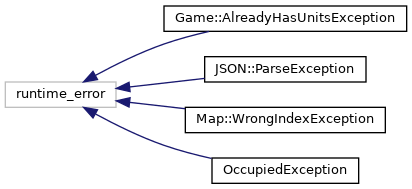
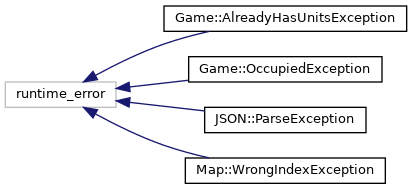
Update gh-pages to output generated at 5c149a8

diff --git a/Game_8h_source.html b/Game_8h_source.html
@@ -73,55 +73,62 @@ $(function() {
 <div class="line"><a name="l00004"></a><span class="lineno">    4</span>&#160;<span class="preprocessor">#include &quot;Hero.h&quot;</span></div>
 <div class="line"><a name="l00005"></a><span class="lineno">    5</span>&#160;<span class="preprocessor">#include &quot;Monster.h&quot;</span></div>
 <div class="line"><a name="l00006"></a><span class="lineno">    6</span>&#160; </div>
-<div class="line"><a name="l00007"></a><span class="lineno"><a class="line" href="structMstr.html">    7</a></span>&#160;<span class="keyword">struct </span><a class="code" href="structMstr.html">Mstr</a>{</div>
-<div class="line"><a name="l00008"></a><span class="lineno">    8</span>&#160;    <a class="code" href="classMonster.html">Monster</a> m;</div>
-<div class="line"><a name="l00009"></a><span class="lineno">    9</span>&#160;    <span class="keywordtype">int</span> col;</div>
-<div class="line"><a name="l00010"></a><span class="lineno">   10</span>&#160;    <span class="keywordtype">int</span> row;</div>
-<div class="line"><a name="l00011"></a><span class="lineno">   11</span>&#160;};</div>
-<div class="line"><a name="l00012"></a><span class="lineno">   12</span>&#160; </div>
-<div class="line"><a name="l00013"></a><span class="lineno"><a class="line" href="structHr.html">   13</a></span>&#160;<span class="keyword">struct </span><a class="code" href="structHr.html">Hr</a>{</div>
-<div class="line"><a name="l00014"></a><span class="lineno">   14</span>&#160;    <a class="code" href="classHero.html">Hero</a>* h;</div>
-<div class="line"><a name="l00015"></a><span class="lineno">   15</span>&#160;    <span class="keywordtype">int</span> col;</div>
-<div class="line"><a name="l00016"></a><span class="lineno">   16</span>&#160;    <span class="keywordtype">int</span> row;</div>
-<div class="line"><a name="l00017"></a><span class="lineno">   17</span>&#160;};</div>
-<div class="line"><a name="l00018"></a><span class="lineno">   18</span>&#160; </div>
-<div class="line"><a name="l00019"></a><span class="lineno"><a class="line" href="classGame.html">   19</a></span>&#160;<span class="keyword">class </span><a class="code" href="classGame.html">Game</a></div>
-<div class="line"><a name="l00020"></a><span class="lineno">   20</span>&#160;{</div>
-<div class="line"><a name="l00021"></a><span class="lineno">   21</span>&#160;<span class="keyword">private</span>:</div>
-<div class="line"><a name="l00022"></a><span class="lineno">   22</span>&#160;    <a class="code" href="classMap.html">Map</a> map;</div>
-<div class="line"><a name="l00023"></a><span class="lineno">   23</span>&#160;    std::list&lt;Mstr&gt; monsters;</div>
-<div class="line"><a name="l00024"></a><span class="lineno">   24</span>&#160;    <a class="code" href="structHr.html">Hr</a> hero;</div>
-<div class="line"><a name="l00025"></a><span class="lineno">   25</span>&#160;    <span class="keywordtype">bool</span> hasUnits; <span class="comment">// @Tomi ez legyen majd true-ra állítva a putokban!!!</span></div>
-<div class="line"><a name="l00026"></a><span class="lineno">   26</span>&#160;    <span class="keywordtype">bool</span> hasMap;</div>
-<div class="line"><a name="l00027"></a><span class="lineno">   27</span>&#160;<span class="keyword">public</span>:</div>
-<div class="line"><a name="l00028"></a><span class="lineno">   28</span>&#160;    <a class="code" href="classGame.html">Game</a>() : map(<a class="code" href="classMap.html">Map</a>()), hasUnits(<span class="keyword">false</span>), hasMap(<span class="keyword">false</span>),hero(){};</div>
-<div class="line"><a name="l00029"></a><span class="lineno">   29</span>&#160;    <a class="code" href="classGame.html">Game</a>(std::string mapfilename) : map(<a class="code" href="classMap.html">Map</a>(mapfilename)), hasUnits(<span class="keyword">false</span>), hasMap(<span class="keyword">true</span>){};</div>
-<div class="line"><a name="l00030"></a><span class="lineno">   30</span>&#160;    ~<a class="code" href="classGame.html">Game</a>();</div>
-<div class="line"><a name="l00031"></a><span class="lineno">   31</span>&#160; </div>
-<div class="line"><a name="l00032"></a><span class="lineno">   32</span>&#160;<span class="keywordtype">void</span> setMap(<a class="code" href="classMap.html">Map</a> NewMap); <span class="comment">// Set the map</span></div>
-<div class="line"><a name="l00033"></a><span class="lineno">   33</span>&#160; </div>
-<div class="line"><a name="l00034"></a><span class="lineno">   34</span>&#160;<span class="keywordtype">void</span> putHero(<a class="code" href="classHero.html">Hero</a> hero, <span class="keywordtype">int</span> x, <span class="keywordtype">int</span> y);</div>
-<div class="line"><a name="l00035"></a><span class="lineno">   35</span>&#160; </div>
-<div class="line"><a name="l00036"></a><span class="lineno">   36</span>&#160;<span class="keywordtype">void</span> putMonster(<a class="code" href="classMonster.html">Monster</a> monster, <span class="keywordtype">int</span> x, <span class="keywordtype">int</span> y);</div>
+<div class="line"><a name="l00007"></a><span class="lineno"><a class="line" href="structMstr.html">    7</a></span>&#160;<span class="keyword">struct </span><a class="code" href="structMstr.html">Mstr</a></div>
+<div class="line"><a name="l00008"></a><span class="lineno">    8</span>&#160;{</div>
+<div class="line"><a name="l00009"></a><span class="lineno">    9</span>&#160;    <a class="code" href="classMonster.html">Monster</a> m;</div>
+<div class="line"><a name="l00010"></a><span class="lineno">   10</span>&#160;    <span class="keywordtype">int</span> col;</div>
+<div class="line"><a name="l00011"></a><span class="lineno">   11</span>&#160;    <span class="keywordtype">int</span> row;</div>
+<div class="line"><a name="l00012"></a><span class="lineno">   12</span>&#160;} mm;</div>
+<div class="line"><a name="l00013"></a><span class="lineno">   13</span>&#160; </div>
+<div class="line"><a name="l00014"></a><span class="lineno"><a class="line" href="structHr.html">   14</a></span>&#160;<span class="keyword">struct </span><a class="code" href="structHr.html">Hr</a></div>
+<div class="line"><a name="l00015"></a><span class="lineno">   15</span>&#160;{</div>
+<div class="line"><a name="l00016"></a><span class="lineno">   16</span>&#160;    <a class="code" href="classHero.html">Hero</a> *h;</div>
+<div class="line"><a name="l00017"></a><span class="lineno">   17</span>&#160;    <span class="keywordtype">int</span> col;</div>
+<div class="line"><a name="l00018"></a><span class="lineno">   18</span>&#160;    <span class="keywordtype">int</span> row;</div>
+<div class="line"><a name="l00019"></a><span class="lineno">   19</span>&#160;};</div>
+<div class="line"><a name="l00020"></a><span class="lineno">   20</span>&#160; </div>
+<div class="line"><a name="l00021"></a><span class="lineno"><a class="line" href="classGame.html">   21</a></span>&#160;<span class="keyword">class </span><a class="code" href="classGame.html">Game</a></div>
+<div class="line"><a name="l00022"></a><span class="lineno">   22</span>&#160;{</div>
+<div class="line"><a name="l00023"></a><span class="lineno">   23</span>&#160;<span class="keyword">private</span>:</div>
+<div class="line"><a name="l00024"></a><span class="lineno">   24</span>&#160;    <a class="code" href="classMap.html">Map</a> map;</div>
+<div class="line"><a name="l00025"></a><span class="lineno">   25</span>&#160;    std::list&lt;Mstr&gt; monsters;</div>
+<div class="line"><a name="l00026"></a><span class="lineno">   26</span>&#160;    <a class="code" href="structHr.html">Hr</a> hero;</div>
+<div class="line"><a name="l00027"></a><span class="lineno">   27</span>&#160;    <span class="keywordtype">bool</span> hasUnits; <span class="comment">// @Tomi ez legyen majd true-ra állítva a putokban!!!</span></div>
+<div class="line"><a name="l00028"></a><span class="lineno">   28</span>&#160;    <span class="keywordtype">bool</span> hasMap;</div>
+<div class="line"><a name="l00029"></a><span class="lineno">   29</span>&#160; </div>
+<div class="line"><a name="l00030"></a><span class="lineno">   30</span>&#160;<span class="keyword">public</span>:</div>
+<div class="line"><a name="l00031"></a><span class="lineno">   31</span>&#160;    <a class="code" href="classGame.html">Game</a>() : map(<a class="code" href="classMap.html">Map</a>()), hasUnits(<span class="keyword">false</span>), hasMap(<span class="keyword">false</span>), hero(){};</div>
+<div class="line"><a name="l00032"></a><span class="lineno">   32</span>&#160;    <a class="code" href="classGame.html">Game</a>(std::string mapfilename) : map(<a class="code" href="classMap.html">Map</a>(mapfilename)), hasUnits(<span class="keyword">false</span>), hasMap(<span class="keyword">true</span>){};</div>
+<div class="line"><a name="l00033"></a><span class="lineno">   33</span>&#160;    ~<a class="code" href="classGame.html">Game</a>();</div>
+<div class="line"><a name="l00034"></a><span class="lineno">   34</span>&#160; </div>
+<div class="line"><a name="l00035"></a><span class="lineno">   35</span>&#160;    <span class="keywordtype">void</span> run();</div>
+<div class="line"><a name="l00036"></a><span class="lineno">   36</span>&#160;    <span class="keywordtype">void</span> setMap(<a class="code" href="classMap.html">Map</a> NewMap); <span class="comment">// Set the map</span></div>
 <div class="line"><a name="l00037"></a><span class="lineno">   37</span>&#160; </div>
-<div class="line"><a name="l00038"></a><span class="lineno"><a class="line" href="classGame_1_1AlreadyHasUnitsException.html">   38</a></span>&#160;<span class="keyword">class </span><a class="code" href="classGame_1_1AlreadyHasUnitsException.html">AlreadyHasUnitsException</a> : <span class="keyword">public</span> std::runtime_error{</div>
-<div class="line"><a name="l00039"></a><span class="lineno">   39</span>&#160;    <span class="keyword">public</span>:</div>
-<div class="line"><a name="l00040"></a><span class="lineno">   40</span>&#160;        <a class="code" href="classGame_1_1AlreadyHasUnitsException.html">AlreadyHasUnitsException</a>(<span class="keyword">const</span> std::string&amp; msg) : std::runtime_error(msg){}</div>
-<div class="line"><a name="l00041"></a><span class="lineno">   41</span>&#160;    };</div>
-<div class="line"><a name="l00042"></a><span class="lineno">   42</span>&#160;};</div>
-<div class="line"><a name="l00043"></a><span class="lineno"><a class="line" href="classOccupiedException.html">   43</a></span>&#160; <span class="keyword">class </span><a class="code" href="classOccupiedException.html">OccupiedException</a> : <span class="keyword">public</span> std::runtime_error{ </div>
-<div class="line"><a name="l00044"></a><span class="lineno">   44</span>&#160;        <span class="keyword">public</span>:</div>
-<div class="line"><a name="l00045"></a><span class="lineno">   45</span>&#160;        <a class="code" href="classOccupiedException.html">OccupiedException</a>(<span class="keyword">const</span> std::string&amp; errMsg) : std::runtime_error(errMsg){}</div>
+<div class="line"><a name="l00038"></a><span class="lineno">   38</span>&#160;    <span class="keywordtype">void</span> putHero(<a class="code" href="classHero.html">Hero</a> hero, <span class="keywordtype">int</span> x, <span class="keywordtype">int</span> y);</div>
+<div class="line"><a name="l00039"></a><span class="lineno">   39</span>&#160;    <span class="keywordtype">void</span> moveHero(<span class="keyword">const</span> std::string &amp;direction);</div>
+<div class="line"><a name="l00040"></a><span class="lineno">   40</span>&#160;    <span class="keywordtype">void</span> putMonster(<a class="code" href="classMonster.html">Monster</a> monster, <span class="keywordtype">int</span> x, <span class="keywordtype">int</span> y);</div>
+<div class="line"><a name="l00041"></a><span class="lineno">   41</span>&#160; </div>
+<div class="line"><a name="l00042"></a><span class="lineno"><a class="line" href="classGame_1_1AlreadyHasUnitsException.html">   42</a></span>&#160;    <span class="keyword">class </span><a class="code" href="classGame_1_1AlreadyHasUnitsException.html">AlreadyHasUnitsException</a> : <span class="keyword">public</span> std::runtime_error</div>
+<div class="line"><a name="l00043"></a><span class="lineno">   43</span>&#160;    {</div>
+<div class="line"><a name="l00044"></a><span class="lineno">   44</span>&#160;    <span class="keyword">public</span>:</div>
+<div class="line"><a name="l00045"></a><span class="lineno">   45</span>&#160;        <a class="code" href="classGame_1_1AlreadyHasUnitsException.html">AlreadyHasUnitsException</a>(<span class="keyword">const</span> std::string &amp;msg) : std::runtime_error(msg) {}</div>
 <div class="line"><a name="l00046"></a><span class="lineno">   46</span>&#160;    };</div>
+<div class="line"><a name="l00047"></a><span class="lineno">   47</span>&#160; </div>
+<div class="line"><a name="l00048"></a><span class="lineno"><a class="line" href="classGame_1_1OccupiedException.html">   48</a></span>&#160;    <span class="keyword">class </span><a class="code" href="classGame_1_1OccupiedException.html">OccupiedException</a> : <span class="keyword">public</span> std::runtime_error</div>
+<div class="line"><a name="l00049"></a><span class="lineno">   49</span>&#160;    {</div>
+<div class="line"><a name="l00050"></a><span class="lineno">   50</span>&#160;    <span class="keyword">public</span>:</div>
+<div class="line"><a name="l00051"></a><span class="lineno">   51</span>&#160;        <a class="code" href="classGame_1_1OccupiedException.html">OccupiedException</a>(<span class="keyword">const</span> std::string &amp;errMsg) : std::runtime_error(errMsg) {}</div>
+<div class="line"><a name="l00052"></a><span class="lineno">   52</span>&#160;    };</div>
+<div class="line"><a name="l00053"></a><span class="lineno">   53</span>&#160;};</div>
 </div><!-- fragment --></div><!-- contents -->
 <div class="ttc" id="astructMstr_html"><div class="ttname"><a href="structMstr.html">Mstr</a></div><div class="ttdef"><b>Definition:</b> Game.h:7</div></div>
 <div class="ttc" id="aclassHero_html"><div class="ttname"><a href="classHero.html">Hero</a></div><div class="ttdoc">Hero class.</div><div class="ttdef"><b>Definition:</b> Hero.h:20</div></div>
-<div class="ttc" id="astructHr_html"><div class="ttname"><a href="structHr.html">Hr</a></div><div class="ttdef"><b>Definition:</b> Game.h:13</div></div>
-<div class="ttc" id="aclassGame_1_1AlreadyHasUnitsException_html"><div class="ttname"><a href="classGame_1_1AlreadyHasUnitsException.html">Game::AlreadyHasUnitsException</a></div><div class="ttdef"><b>Definition:</b> Game.h:38</div></div>
-<div class="ttc" id="aclassOccupiedException_html"><div class="ttname"><a href="classOccupiedException.html">OccupiedException</a></div><div class="ttdef"><b>Definition:</b> Game.h:43</div></div>
+<div class="ttc" id="astructHr_html"><div class="ttname"><a href="structHr.html">Hr</a></div><div class="ttdef"><b>Definition:</b> Game.h:14</div></div>
+<div class="ttc" id="aclassGame_1_1OccupiedException_html"><div class="ttname"><a href="classGame_1_1OccupiedException.html">Game::OccupiedException</a></div><div class="ttdef"><b>Definition:</b> Game.h:48</div></div>
+<div class="ttc" id="aclassGame_1_1AlreadyHasUnitsException_html"><div class="ttname"><a href="classGame_1_1AlreadyHasUnitsException.html">Game::AlreadyHasUnitsException</a></div><div class="ttdef"><b>Definition:</b> Game.h:42</div></div>
 <div class="ttc" id="aclassMonster_html"><div class="ttname"><a href="classMonster.html">Monster</a></div><div class="ttdoc">Monster class.</div><div class="ttdef"><b>Definition:</b> Monster.h:16</div></div>
 <div class="ttc" id="aclassMap_html"><div class="ttname"><a href="classMap.html">Map</a></div><div class="ttdef"><b>Definition:</b> Map.h:5</div></div>
-<div class="ttc" id="aclassGame_html"><div class="ttname"><a href="classGame.html">Game</a></div><div class="ttdef"><b>Definition:</b> Game.h:19</div></div>
+<div class="ttc" id="aclassGame_html"><div class="ttname"><a href="classGame.html">Game</a></div><div class="ttdef"><b>Definition:</b> Game.h:21</div></div>
 <!-- start footer part -->
 <hr class="footer"/><address class="footer"><small>
 Generated by &#160;<a href="http://www.doxygen.org/index.html">

diff --git a/annotated.html b/annotated.html
@@ -72,15 +72,15 @@ $(function() {
 <tr id="row_0_" class="even"><td class="entry"><span style="width:16px;display:inline-block;">&#160;</span><span class="icona"><span class="icon">C</span></span><a class="el" href="structdamage.html" target="_self">damage</a></td><td class="desc"></td></tr>
 <tr id="row_1_"><td class="entry"><span style="width:0px;display:inline-block;">&#160;</span><span id="arr_1_" class="arrow" onclick="toggleFolder('1_')">&#9660;</span><span class="icona"><span class="icon">C</span></span><a class="el" href="classGame.html" target="_self">Game</a></td><td class="desc"></td></tr>
 <tr id="row_1_0_" class="even"><td class="entry"><span style="width:32px;display:inline-block;">&#160;</span><span class="icona"><span class="icon">C</span></span><a class="el" href="classGame_1_1AlreadyHasUnitsException.html" target="_self">AlreadyHasUnitsException</a></td><td class="desc"></td></tr>
-<tr id="row_2_"><td class="entry"><span style="width:16px;display:inline-block;">&#160;</span><span class="icona"><span class="icon">C</span></span><a class="el" href="classHero.html" target="_self">Hero</a></td><td class="desc"><a class="el" href="classHero.html" title="Hero class.">Hero</a> class </td></tr>
-<tr id="row_3_" class="even"><td class="entry"><span style="width:16px;display:inline-block;">&#160;</span><span class="icona"><span class="icon">C</span></span><a class="el" href="structHr.html" target="_self">Hr</a></td><td class="desc"></td></tr>
-<tr id="row_4_"><td class="entry"><span style="width:0px;display:inline-block;">&#160;</span><span id="arr_4_" class="arrow" onclick="toggleFolder('4_')">&#9660;</span><span class="icona"><span class="icon">C</span></span><a class="el" href="classJSON.html" target="_self">JSON</a></td><td class="desc"><a class="el" href="classJSON.html" title="JSON class.">JSON</a> class </td></tr>
-<tr id="row_4_0_" class="even"><td class="entry"><span style="width:32px;display:inline-block;">&#160;</span><span class="icona"><span class="icon">C</span></span><a class="el" href="classJSON_1_1ParseException.html" target="_self">ParseException</a></td><td class="desc"></td></tr>
-<tr id="row_5_"><td class="entry"><span style="width:0px;display:inline-block;">&#160;</span><span id="arr_5_" class="arrow" onclick="toggleFolder('5_')">&#9660;</span><span class="icona"><span class="icon">C</span></span><a class="el" href="classMap.html" target="_self">Map</a></td><td class="desc"></td></tr>
-<tr id="row_5_0_" class="even"><td class="entry"><span style="width:32px;display:inline-block;">&#160;</span><span class="icona"><span class="icon">C</span></span><a class="el" href="classMap_1_1WrongIndexException.html" target="_self">WrongIndexException</a></td><td class="desc"></td></tr>
-<tr id="row_6_"><td class="entry"><span style="width:16px;display:inline-block;">&#160;</span><span class="icona"><span class="icon">C</span></span><a class="el" href="classMonster.html" target="_self">Monster</a></td><td class="desc"><a class="el" href="classMonster.html" title="Monster class.">Monster</a> class </td></tr>
-<tr id="row_7_" class="even"><td class="entry"><span style="width:16px;display:inline-block;">&#160;</span><span class="icona"><span class="icon">C</span></span><a class="el" href="structMstr.html" target="_self">Mstr</a></td><td class="desc"></td></tr>
-<tr id="row_8_"><td class="entry"><span style="width:16px;display:inline-block;">&#160;</span><span class="icona"><span class="icon">C</span></span><a class="el" href="classOccupiedException.html" target="_self">OccupiedException</a></td><td class="desc"></td></tr>
+<tr id="row_1_1_"><td class="entry"><span style="width:32px;display:inline-block;">&#160;</span><span class="icona"><span class="icon">C</span></span><a class="el" href="classGame_1_1OccupiedException.html" target="_self">OccupiedException</a></td><td class="desc"></td></tr>
+<tr id="row_2_" class="even"><td class="entry"><span style="width:16px;display:inline-block;">&#160;</span><span class="icona"><span class="icon">C</span></span><a class="el" href="classHero.html" target="_self">Hero</a></td><td class="desc"><a class="el" href="classHero.html" title="Hero class.">Hero</a> class </td></tr>
+<tr id="row_3_"><td class="entry"><span style="width:16px;display:inline-block;">&#160;</span><span class="icona"><span class="icon">C</span></span><a class="el" href="structHr.html" target="_self">Hr</a></td><td class="desc"></td></tr>
+<tr id="row_4_" class="even"><td class="entry"><span style="width:0px;display:inline-block;">&#160;</span><span id="arr_4_" class="arrow" onclick="toggleFolder('4_')">&#9660;</span><span class="icona"><span class="icon">C</span></span><a class="el" href="classJSON.html" target="_self">JSON</a></td><td class="desc"><a class="el" href="classJSON.html" title="JSON class.">JSON</a> class </td></tr>
+<tr id="row_4_0_"><td class="entry"><span style="width:32px;display:inline-block;">&#160;</span><span class="icona"><span class="icon">C</span></span><a class="el" href="classJSON_1_1ParseException.html" target="_self">ParseException</a></td><td class="desc"></td></tr>
+<tr id="row_5_" class="even"><td class="entry"><span style="width:0px;display:inline-block;">&#160;</span><span id="arr_5_" class="arrow" onclick="toggleFolder('5_')">&#9660;</span><span class="icona"><span class="icon">C</span></span><a class="el" href="classMap.html" target="_self">Map</a></td><td class="desc"></td></tr>
+<tr id="row_5_0_"><td class="entry"><span style="width:32px;display:inline-block;">&#160;</span><span class="icona"><span class="icon">C</span></span><a class="el" href="classMap_1_1WrongIndexException.html" target="_self">WrongIndexException</a></td><td class="desc"></td></tr>
+<tr id="row_6_" class="even"><td class="entry"><span style="width:16px;display:inline-block;">&#160;</span><span class="icona"><span class="icon">C</span></span><a class="el" href="classMonster.html" target="_self">Monster</a></td><td class="desc"><a class="el" href="classMonster.html" title="Monster class.">Monster</a> class </td></tr>
+<tr id="row_7_"><td class="entry"><span style="width:16px;display:inline-block;">&#160;</span><span class="icona"><span class="icon">C</span></span><a class="el" href="structMstr.html" target="_self">Mstr</a></td><td class="desc"></td></tr>
 </table>
 </div><!-- directory -->
 </div><!-- contents -->

diff --git a/classGame_1_1OccupiedException.html b/classGame_1_1OccupiedException.html
@@ -5,7 +5,7 @@
 <meta http-equiv="X-UA-Compatible" content="IE=9"/>
 <meta name="generator" content="Doxygen 1.8.17"/>
 <meta name="viewport" content="width=device-width, initial-scale=1"/>
-<title>RPG: Member List</title>
+<title>RPG: Game::OccupiedException Class Reference</title>
 <link href="tabs.css" rel="stylesheet" type="text/css"/>
 <script type="text/javascript" src="jquery.js"></script>
 <script type="text/javascript" src="dynsections.js"></script>
@@ -61,17 +61,48 @@ $(function() {
 </iframe>
 </div>
 
+<div id="nav-path" class="navpath">
+  <ul>
+<li class="navelem"><a class="el" href="classGame.html">Game</a></li><li class="navelem"><a class="el" href="classGame_1_1OccupiedException.html">OccupiedException</a></li>  </ul>
+</div>
 </div><!-- top -->
 <div class="header">
+  <div class="summary">
+<a href="#pub-methods">Public Member Functions</a> &#124;
+<a href="classGame_1_1OccupiedException-members.html">List of all members</a>  </div>
   <div class="headertitle">
-<div class="title">OccupiedException Member List</div>  </div>
+<div class="title">Game::OccupiedException Class Reference</div>  </div>
 </div><!--header-->
 <div class="contents">
-
-<p>This is the complete list of members for <a class="el" href="classOccupiedException.html">OccupiedException</a>, including all inherited members.</p>
-<table class="directory">
-  <tr bgcolor="#f0f0f0" class="even"><td class="entry"><b>OccupiedException</b>(const std::string &amp;errMsg) (defined in <a class="el" href="classOccupiedException.html">OccupiedException</a>)</td><td class="entry"><a class="el" href="classOccupiedException.html">OccupiedException</a></td><td class="entry"><span class="mlabel">inline</span></td></tr>
-</table></div><!-- contents -->
+<div class="dynheader">
+Inheritance diagram for Game::OccupiedException:</div>
+<div class="dyncontent">
+<div class="center"><img src="classGame_1_1OccupiedException__inherit__graph.png" border="0" usemap="#Game_1_1OccupiedException_inherit__map" alt="Inheritance graph"/></div>
+<map name="Game_1_1OccupiedException_inherit__map" id="Game_1_1OccupiedException_inherit__map">
+<area shape="rect" title=" " alt="" coords="5,80,199,107"/>
+<area shape="rect" title=" " alt="" coords="47,5,157,32"/>
+</map>
+<center><span class="legend">[<a href="graph_legend.html">legend</a>]</span></center></div>
+<div class="dynheader">
+Collaboration diagram for Game::OccupiedException:</div>
+<div class="dyncontent">
+<div class="center"><img src="classGame_1_1OccupiedException__coll__graph.png" border="0" usemap="#Game_1_1OccupiedException_coll__map" alt="Collaboration graph"/></div>
+<map name="Game_1_1OccupiedException_coll__map" id="Game_1_1OccupiedException_coll__map">
+<area shape="rect" title=" " alt="" coords="5,80,199,107"/>
+<area shape="rect" title=" " alt="" coords="47,5,157,32"/>
+</map>
+<center><span class="legend">[<a href="graph_legend.html">legend</a>]</span></center></div>
+<table class="memberdecls">
+<tr class="heading"><td colspan="2"><h2 class="groupheader"><a name="pub-methods"></a>
+Public Member Functions</h2></td></tr>
+<tr class="memitem:a12f115db77fab3b1a7c5a5eaea3887af"><td class="memItemLeft" align="right" valign="top"><a id="a12f115db77fab3b1a7c5a5eaea3887af"></a>
+&#160;</td><td class="memItemRight" valign="bottom"><b>OccupiedException</b> (const std::string &amp;errMsg)</td></tr>
+<tr class="separator:a12f115db77fab3b1a7c5a5eaea3887af"><td class="memSeparator" colspan="2">&#160;</td></tr>
+</table>
+<hr/>The documentation for this class was generated from the following file:<ul>
+<li><a class="el" href="Game_8h_source.html">Game.h</a></li>
+</ul>
+</div><!-- contents -->
 <!-- start footer part -->
 <hr class="footer"/><address class="footer"><small>
 Generated by &#160;<a href="http://www.doxygen.org/index.html">

diff --git a/classGame_1_1OccupiedException-members.html b/classGame_1_1OccupiedException-members.html
@@ -5,7 +5,7 @@
 <meta http-equiv="X-UA-Compatible" content="IE=9"/>
 <meta name="generator" content="Doxygen 1.8.17"/>
 <meta name="viewport" content="width=device-width, initial-scale=1"/>
-<title>RPG: OccupiedException Class Reference</title>
+<title>RPG: Member List</title>
 <link href="tabs.css" rel="stylesheet" type="text/css"/>
 <script type="text/javascript" src="jquery.js"></script>
 <script type="text/javascript" src="dynsections.js"></script>
@@ -61,44 +61,21 @@ $(function() {
 </iframe>
 </div>
 
+<div id="nav-path" class="navpath">
+  <ul>
+<li class="navelem"><a class="el" href="classGame.html">Game</a></li><li class="navelem"><a class="el" href="classGame_1_1OccupiedException.html">OccupiedException</a></li>  </ul>
+</div>
 </div><!-- top -->
 <div class="header">
-  <div class="summary">
-<a href="#pub-methods">Public Member Functions</a> &#124;
-<a href="classOccupiedException-members.html">List of all members</a>  </div>
   <div class="headertitle">
-<div class="title">OccupiedException Class Reference</div>  </div>
+<div class="title">Game::OccupiedException Member List</div>  </div>
 </div><!--header-->
 <div class="contents">
-<div class="dynheader">
-Inheritance diagram for OccupiedException:</div>
-<div class="dyncontent">
-<div class="center"><img src="classOccupiedException__inherit__graph.png" border="0" usemap="#OccupiedException_inherit__map" alt="Inheritance graph"/></div>
-<map name="OccupiedException_inherit__map" id="OccupiedException_inherit__map">
-<area shape="rect" title=" " alt="" coords="5,80,152,107"/>
-<area shape="rect" title=" " alt="" coords="23,5,134,32"/>
-</map>
-<center><span class="legend">[<a href="graph_legend.html">legend</a>]</span></center></div>
-<div class="dynheader">
-Collaboration diagram for OccupiedException:</div>
-<div class="dyncontent">
-<div class="center"><img src="classOccupiedException__coll__graph.png" border="0" usemap="#OccupiedException_coll__map" alt="Collaboration graph"/></div>
-<map name="OccupiedException_coll__map" id="OccupiedException_coll__map">
-<area shape="rect" title=" " alt="" coords="5,80,152,107"/>
-<area shape="rect" title=" " alt="" coords="23,5,134,32"/>
-</map>
-<center><span class="legend">[<a href="graph_legend.html">legend</a>]</span></center></div>
-<table class="memberdecls">
-<tr class="heading"><td colspan="2"><h2 class="groupheader"><a name="pub-methods"></a>
-Public Member Functions</h2></td></tr>
-<tr class="memitem:adaac78df5dc73ea0ca96fb18ad7b1b92"><td class="memItemLeft" align="right" valign="top"><a id="adaac78df5dc73ea0ca96fb18ad7b1b92"></a>
-&#160;</td><td class="memItemRight" valign="bottom"><b>OccupiedException</b> (const std::string &amp;errMsg)</td></tr>
-<tr class="separator:adaac78df5dc73ea0ca96fb18ad7b1b92"><td class="memSeparator" colspan="2">&#160;</td></tr>
-</table>
-<hr/>The documentation for this class was generated from the following file:<ul>
-<li><a class="el" href="Game_8h_source.html">Game.h</a></li>
-</ul>
-</div><!-- contents -->
+
+<p>This is the complete list of members for <a class="el" href="classGame_1_1OccupiedException.html">Game::OccupiedException</a>, including all inherited members.</p>
+<table class="directory">
+  <tr bgcolor="#f0f0f0" class="even"><td class="entry"><b>OccupiedException</b>(const std::string &amp;errMsg) (defined in <a class="el" href="classGame_1_1OccupiedException.html">Game::OccupiedException</a>)</td><td class="entry"><a class="el" href="classGame_1_1OccupiedException.html">Game::OccupiedException</a></td><td class="entry"><span class="mlabel">inline</span></td></tr>
+</table></div><!-- contents -->
 <!-- start footer part -->
 <hr class="footer"/><address class="footer"><small>
 Generated by &#160;<a href="http://www.doxygen.org/index.html">

diff --git a/classGame.html b/classGame.html
@@ -76,18 +76,26 @@ $(function() {
 Classes</h2></td></tr>
 <tr class="memitem:"><td class="memItemLeft" align="right" valign="top">class &#160;</td><td class="memItemRight" valign="bottom"><a class="el" href="classGame_1_1AlreadyHasUnitsException.html">AlreadyHasUnitsException</a></td></tr>
 <tr class="separator:"><td class="memSeparator" colspan="2">&#160;</td></tr>
+<tr class="memitem:"><td class="memItemLeft" align="right" valign="top">class &#160;</td><td class="memItemRight" valign="bottom"><a class="el" href="classGame_1_1OccupiedException.html">OccupiedException</a></td></tr>
+<tr class="separator:"><td class="memSeparator" colspan="2">&#160;</td></tr>
 </table><table class="memberdecls">
 <tr class="heading"><td colspan="2"><h2 class="groupheader"><a name="pub-methods"></a>
 Public Member Functions</h2></td></tr>
 <tr class="memitem:a4826d5d4e1c4a355c203df5c4fceb650"><td class="memItemLeft" align="right" valign="top"><a id="a4826d5d4e1c4a355c203df5c4fceb650"></a>
 &#160;</td><td class="memItemRight" valign="bottom"><b>Game</b> (std::string mapfilename)</td></tr>
 <tr class="separator:a4826d5d4e1c4a355c203df5c4fceb650"><td class="memSeparator" colspan="2">&#160;</td></tr>
+<tr class="memitem:a1ab78f5ed0d5ea879157357cf2fb2afa"><td class="memItemLeft" align="right" valign="top"><a id="a1ab78f5ed0d5ea879157357cf2fb2afa"></a>
+void&#160;</td><td class="memItemRight" valign="bottom"><b>run</b> ()</td></tr>
+<tr class="separator:a1ab78f5ed0d5ea879157357cf2fb2afa"><td class="memSeparator" colspan="2">&#160;</td></tr>
 <tr class="memitem:a1f757023d3aeb3d3ffc9b010516fd3fd"><td class="memItemLeft" align="right" valign="top"><a id="a1f757023d3aeb3d3ffc9b010516fd3fd"></a>
 void&#160;</td><td class="memItemRight" valign="bottom"><b>setMap</b> (<a class="el" href="classMap.html">Map</a> NewMap)</td></tr>
 <tr class="separator:a1f757023d3aeb3d3ffc9b010516fd3fd"><td class="memSeparator" colspan="2">&#160;</td></tr>
 <tr class="memitem:a2c9bbc80ff60480af1bbdf06cd3380a7"><td class="memItemLeft" align="right" valign="top"><a id="a2c9bbc80ff60480af1bbdf06cd3380a7"></a>
 void&#160;</td><td class="memItemRight" valign="bottom"><b>putHero</b> (<a class="el" href="classHero.html">Hero</a> hero, int x, int y)</td></tr>
 <tr class="separator:a2c9bbc80ff60480af1bbdf06cd3380a7"><td class="memSeparator" colspan="2">&#160;</td></tr>
+<tr class="memitem:a75bb0eba85d893780125e414fe00087f"><td class="memItemLeft" align="right" valign="top"><a id="a75bb0eba85d893780125e414fe00087f"></a>
+void&#160;</td><td class="memItemRight" valign="bottom"><b>moveHero</b> (const std::string &amp;direction)</td></tr>
+<tr class="separator:a75bb0eba85d893780125e414fe00087f"><td class="memSeparator" colspan="2">&#160;</td></tr>
 <tr class="memitem:a5fc59a7c9f21b26c9b6502217dc5aa5d"><td class="memItemLeft" align="right" valign="top"><a id="a5fc59a7c9f21b26c9b6502217dc5aa5d"></a>
 void&#160;</td><td class="memItemRight" valign="bottom"><b>putMonster</b> (<a class="el" href="classMonster.html">Monster</a> monster, int x, int y)</td></tr>
 <tr class="separator:a5fc59a7c9f21b26c9b6502217dc5aa5d"><td class="memSeparator" colspan="2">&#160;</td></tr>

diff --git a/hierarchy.html b/hierarchy.html
@@ -81,9 +81,9 @@ This inheritance list is sorted roughly, but not completely, alphabetically:</di
 <tr id="row_6_"><td class="entry"><span style="width:16px;display:inline-block;">&#160;</span><span class="icona"><span class="icon">C</span></span><a class="el" href="structMstr.html" target="_self">Mstr</a></td><td class="desc"></td></tr>
 <tr id="row_7_" class="even"><td class="entry"><span style="width:0px;display:inline-block;">&#160;</span><span id="arr_7_" class="arrow" onclick="toggleFolder('7_')">&#9660;</span><span class="icona"><span class="icon">C</span></span><b>runtime_error</b></td><td class="desc"></td></tr>
 <tr id="row_7_0_"><td class="entry"><span style="width:32px;display:inline-block;">&#160;</span><span class="icona"><span class="icon">C</span></span><a class="el" href="classGame_1_1AlreadyHasUnitsException.html" target="_self">Game::AlreadyHasUnitsException</a></td><td class="desc"></td></tr>
-<tr id="row_7_1_" class="even"><td class="entry"><span style="width:32px;display:inline-block;">&#160;</span><span class="icona"><span class="icon">C</span></span><a class="el" href="classJSON_1_1ParseException.html" target="_self">JSON::ParseException</a></td><td class="desc"></td></tr>
-<tr id="row_7_2_"><td class="entry"><span style="width:32px;display:inline-block;">&#160;</span><span class="icona"><span class="icon">C</span></span><a class="el" href="classMap_1_1WrongIndexException.html" target="_self">Map::WrongIndexException</a></td><td class="desc"></td></tr>
-<tr id="row_7_3_" class="even"><td class="entry"><span style="width:32px;display:inline-block;">&#160;</span><span class="icona"><span class="icon">C</span></span><a class="el" href="classOccupiedException.html" target="_self">OccupiedException</a></td><td class="desc"></td></tr>
+<tr id="row_7_1_" class="even"><td class="entry"><span style="width:32px;display:inline-block;">&#160;</span><span class="icona"><span class="icon">C</span></span><a class="el" href="classGame_1_1OccupiedException.html" target="_self">Game::OccupiedException</a></td><td class="desc"></td></tr>
+<tr id="row_7_2_"><td class="entry"><span style="width:32px;display:inline-block;">&#160;</span><span class="icona"><span class="icon">C</span></span><a class="el" href="classJSON_1_1ParseException.html" target="_self">JSON::ParseException</a></td><td class="desc"></td></tr>
+<tr id="row_7_3_" class="even"><td class="entry"><span style="width:32px;display:inline-block;">&#160;</span><span class="icona"><span class="icon">C</span></span><a class="el" href="classMap_1_1WrongIndexException.html" target="_self">Map::WrongIndexException</a></td><td class="desc"></td></tr>
 </table>
 </div><!-- directory -->
 </div><!-- contents -->

diff --git a/classGame-members.html b/classGame-members.html
@@ -72,8 +72,10 @@ $(function() {
 <table class="directory">
   <tr bgcolor="#f0f0f0" class="even"><td class="entry"><b>Game</b>() (defined in <a class="el" href="classGame.html">Game</a>)</td><td class="entry"><a class="el" href="classGame.html">Game</a></td><td class="entry"><span class="mlabel">inline</span></td></tr>
   <tr bgcolor="#f0f0f0"><td class="entry"><b>Game</b>(std::string mapfilename) (defined in <a class="el" href="classGame.html">Game</a>)</td><td class="entry"><a class="el" href="classGame.html">Game</a></td><td class="entry"><span class="mlabel">inline</span></td></tr>
-  <tr bgcolor="#f0f0f0" class="even"><td class="entry"><b>putHero</b>(Hero hero, int x, int y) (defined in <a class="el" href="classGame.html">Game</a>)</td><td class="entry"><a class="el" href="classGame.html">Game</a></td><td class="entry"></td></tr>
-  <tr bgcolor="#f0f0f0"><td class="entry"><b>putMonster</b>(Monster monster, int x, int y) (defined in <a class="el" href="classGame.html">Game</a>)</td><td class="entry"><a class="el" href="classGame.html">Game</a></td><td class="entry"></td></tr>
+  <tr bgcolor="#f0f0f0" class="even"><td class="entry"><b>moveHero</b>(const std::string &amp;direction) (defined in <a class="el" href="classGame.html">Game</a>)</td><td class="entry"><a class="el" href="classGame.html">Game</a></td><td class="entry"></td></tr>
+  <tr bgcolor="#f0f0f0"><td class="entry"><b>putHero</b>(Hero hero, int x, int y) (defined in <a class="el" href="classGame.html">Game</a>)</td><td class="entry"><a class="el" href="classGame.html">Game</a></td><td class="entry"></td></tr>
+  <tr bgcolor="#f0f0f0" class="even"><td class="entry"><b>putMonster</b>(Monster monster, int x, int y) (defined in <a class="el" href="classGame.html">Game</a>)</td><td class="entry"><a class="el" href="classGame.html">Game</a></td><td class="entry"></td></tr>
+  <tr bgcolor="#f0f0f0"><td class="entry"><b>run</b>() (defined in <a class="el" href="classGame.html">Game</a>)</td><td class="entry"><a class="el" href="classGame.html">Game</a></td><td class="entry"></td></tr>
   <tr bgcolor="#f0f0f0" class="even"><td class="entry"><b>setMap</b>(Map NewMap) (defined in <a class="el" href="classGame.html">Game</a>)</td><td class="entry"><a class="el" href="classGame.html">Game</a></td><td class="entry"></td></tr>
   <tr bgcolor="#f0f0f0"><td class="entry"><b>~Game</b>() (defined in <a class="el" href="classGame.html">Game</a>)</td><td class="entry"><a class="el" href="classGame.html">Game</a></td><td class="entry"></td></tr>
 </table></div><!-- contents -->

diff --git a/inherits.html b/inherits.html
@@ -84,9 +84,9 @@ $(function() {
 <map name="Game_1_1AlreadyHasUnitsException" id="Game_1_1AlreadyHasUnitsException">
 <area shape="rect" title=" " alt="" coords="5,81,116,108"/>
 <area shape="rect" href="classGame_1_1AlreadyHasUnitsException.html" title=" " alt="" coords="164,5,407,32"/>
-<area shape="rect" href="classJSON_1_1ParseException.html" title=" " alt="" coords="205,56,366,83"/>
-<area shape="rect" href="classMap_1_1WrongIndexException.html" title=" " alt="" coords="185,107,385,133"/>
-<area shape="rect" href="classOccupiedException.html" title=" " alt="" coords="212,157,359,184"/>
+<area shape="rect" href="classGame_1_1OccupiedException.html" title=" " alt="" coords="189,56,382,83"/>
+<area shape="rect" href="classJSON_1_1ParseException.html" title=" " alt="" coords="205,107,366,133"/>
+<area shape="rect" href="classMap_1_1WrongIndexException.html" title=" " alt="" coords="185,157,385,184"/>
 </map>
 </td></tr>
 <tr><td><img src="inherit_graph_3.png" border="0" usemap="#Hr" alt=""/>

diff --git a/classes.html b/classes.html
@@ -96,7 +96,7 @@ $(function() {
 <td></td></tr>
 <tr><td rowspan="2" valign="bottom"><a name="letter_m"></a><table border="0" cellspacing="0" cellpadding="0"><tr><td><div class="ah">&#160;&#160;m&#160;&#160;</div></td></tr></table>
 </td>
-<td valign="top"><a class="el" href="classOccupiedException.html">OccupiedException</a>&#160;&#160;&#160;</td>
+<td valign="top"><a class="el" href="classGame_1_1OccupiedException.html">Game::OccupiedException</a>&#160;&#160;&#160;</td>
 <td></td></tr>
 <tr><td valign="top"><a class="el" href="structdamage.html">damage</a>&#160;&#160;&#160;</td>
 <td valign="top"><a class="el" href="classHero.html">Hero</a>&#160;&#160;&#160;</td>

diff --git a/search/all_a.js b/search/all_a.js
@@ -1,5 +1,5 @@
 var searchData=
 [
-  ['occupiedexception_26',['OccupiedException',['../classOccupiedException.html',1,'']]],
+  ['occupiedexception_26',['OccupiedException',['../classGame_1_1OccupiedException.html',1,'Game']]],
   ['operator_3c_3c_27',['operator&lt;&lt;',['../classMonster.html#a66a1ed7b55c2fdb10ea348a960e28f3b',1,'Monster']]]
 ];

diff --git a/search/classes_6.js b/search/classes_6.js
@@ -1,4 +1,4 @@
 var searchData=
 [
-  ['occupiedexception_50',['OccupiedException',['../classOccupiedException.html',1,'']]]
+  ['occupiedexception_50',['OccupiedException',['../classGame_1_1OccupiedException.html',1,'Game']]]
 ];
